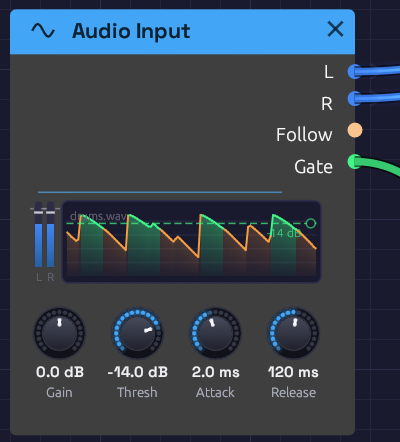
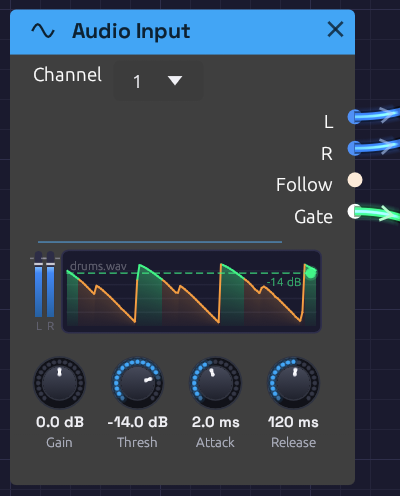
[Phase 14] Audio Input channel choice: hear a mono source on both sides
- A Channel menu on Audio Input: Stereo (input 1 on L, input 2 on R, as
  before), 1 or 2 (that input on both sides). Defaults to Stereo, so old
  patches load and sound the same
- Routed in the module, not the feed: each Audio Input chooses on its own,
  so two can split an interface's inputs between chains
- Follow and Gate follow the chosen input alone
- Tests: channel routing, Stereo unchanged sample for sample, Follow/Gate on
  the chosen input, two modules on 1 and 2 through the offline renderer, an
  old patch loading as Stereo and the choice surviving save and load
- Docs: Channel in the parameters table, a "Choosing a channel" section,
  which inputs are reachable, and a recaptured node image

Closes #94

Claude-Session: https://claude.ai/code/session_01FQjbzhph5a2YkqnHpadR31

diff --git a/src/modules/audio_input.rs b/src/modules/audio_input.rs
@@ -24,6 +24,9 @@ pub const FOLLOW_FLOOR_DB: f32 = -60.0;
 /// again, so a level hovering at the threshold doesn't chatter.
 pub const GATE_HYSTERESIS_DB: f32 = 6.0;
 
+/// The Channel choice: which of the device's inputs each side hears.
+pub const CHANNEL_LABELS: &[&str] = &["Stereo", "1", "2"];
+
 /// Converts a level in dBFS to Follow's scale: 0 at the floor, 1 at 0 dBFS.
 #[inline]
 pub fn follow_from_db(db: f32) -> f32 {
@@ -41,8 +44,9 @@ fn coefficient(ms: f32, sample_rate: f32) -> f32 {
 /// # Ports
 ///
 /// **Outputs:**
-/// - **L**, **R** (Audio): The input, after Gain. A mono input is heard on
-///   both.
+/// - **L**, **R** (Audio): The input, after Gain. In Stereo, input 1 on L
+///   and input 2 on R; on 1 or 2, that input on both. A mono device is
+///   heard on both either way.
 /// - **Follow** (Control): How loud the input is, on a dB scale: 0 at
 ///   -60 dB, 1 at full scale.
 /// - **Gate** (Gate): High while the input is above the Threshold.
@@ -53,6 +57,7 @@ fn coefficient(ms: f32, sample_rate: f32) -> f32 {
 /// - **Threshold** (-60 to 0 dB): Where the gate opens.
 /// - **Attack** (0.1-100 ms): How fast Follow rises.
 /// - **Release** (5-2000 ms): How fast Follow falls.
+/// - **Channel** (Stereo, 1, 2): Which input the module hears.
 pub struct AudioInput {
     /// The Gain knob as a linear gain, smoothed.
     gain: SmoothedValue,
@@ -77,9 +82,9 @@ impl AudioInput {
             sample_rate,
             ports: vec![
                 PortDefinition::output("left", "L", SignalType::Audio)
-                    .describe("The input's left side, or the whole of a mono input, after Gain"),
+                    .describe("Input 1, or the chosen Channel, after Gain"),
                 PortDefinition::output("right", "R", SignalType::Audio)
-                    .describe("The input's right side, or the whole of a mono input, after Gain"),
+                    .describe("Input 2, or the chosen Channel, after Gain"),
                 PortDefinition::output("follow", "Follow", SignalType::Control)
                     .describe("How loud the input is: 0 at -60 dB up to 1 at full scale"),
                 PortDefinition::output("gate", "Gate", SignalType::Gate)
@@ -94,6 +99,8 @@ impl AudioInput {
                     .describe("How fast Follow rises when the input gets louder"),
                 ParameterDefinition::new("release", "Release", 5.0, 2000.0, 150.0, ParameterDisplay::logarithmic("ms"))
                     .describe("How fast Follow falls when the input gets quieter"),
+                ParameterDefinition::choice("channel", "Channel", CHANNEL_LABELS, 0)
+                    .describe("Stereo hears inputs 1 and 2 on L and R; 1 or 2 hears that input alone, on both"),
             ],
         }
     }
@@ -102,6 +109,7 @@ impl AudioInput {
     const PARAM_THRESHOLD: usize = 1;
     const PARAM_ATTACK: usize = 2;
     const PARAM_RELEASE: usize = 3;
+    const PARAM_CHANNEL: usize = 4;
 
     /// Follow's reading of the envelope.
     #[inline]
@@ -156,16 +164,23 @@ impl DspModule for AudioInput {
         let close_at = open_at - GATE_HYSTERESIS_DB / -FOLLOW_FLOOR_DB;
         let attack = coefficient(params[Self::PARAM_ATTACK], self.sample_rate);
         let release = coefficient(params[Self::PARAM_RELEASE], self.sample_rate);
+        let channel = params[Self::PARAM_CHANNEL].round() as usize;
 
         for i in 0..context.block_size {
             let gain = self.gain.next();
-            let (left, right) = context.input.frame(i);
+            let (one, two) = context.input.frame(i);
+            let (left, right) = match channel {
+                1 => (one, one),
+                2 => (two, two),
+                _ => (one, two),
+            };
             let (left, right) = (left * gain, right * gain);
             left_out.samples[i] = left;
             right_out.samples[i] = right;
             self.peaks[0] = self.peaks[0].max(left.abs());
             self.peaks[1] = self.peaks[1].max(right.abs());
 
+            // The louder side; on 1 or 2 both sides are that input
             let level = left.abs().max(right.abs());
             let rate = if level > self.envelope { attack } else { release };
             self.envelope += rate * (level - self.envelope);
@@ -205,8 +220,16 @@ mod tests {
     const SR: f32 = 48000.0;
     const BLOCK: usize = 240; // 5 ms
 
-    /// Default parameters: 0 dB gain, -30 dB threshold, 5 ms attack, 150 ms release.
-    const DEFAULTS: [f32; 4] = [0.0, -30.0, 5.0, 150.0];
+    /// Default parameters: 0 dB gain, -30 dB threshold, 5 ms attack, 150 ms
+    /// release, Stereo.
+    const DEFAULTS: [f32; 5] = [0.0, -30.0, 5.0, 150.0, 0.0];
+
+    /// The defaults with Channel set to `index` (0 Stereo, 1, 2).
+    fn on_channel(index: f32) -> [f32; 5] {
+        let mut params = DEFAULTS;
+        params[4] = index;
+        params
+    }
 
     struct Run {
         left: Vec<f32>,
@@ -216,7 +239,7 @@ mod tests {
     }
 
     /// Plays stereo input through a fresh module, block by block.
-    fn run(left: &[f32], right: &[f32], params: [f32; 4]) -> Run {
+    fn run(left: &[f32], right: &[f32], params: [f32; 5]) -> Run {
         let mut module = AudioInput::new();
         module.prepare(SR, BLOCK);
         module.gain.set_immediate(10f32.powf(params[0] / 20.0));
@@ -265,7 +288,11 @@ mod tests {
         assert_eq!(ports[2].signal_type, SignalType::Control);
         assert_eq!(ports[3].signal_type, SignalType::Gate);
         let params: Vec<_> = module.parameters().iter().map(|p| p.name).collect();
-        assert_eq!(params, ["Gain", "Threshold", "Attack", "Release"]);
+        assert_eq!(params, ["Gain", "Threshold", "Attack", "Release", "Channel"]);
+        // Stereo by default, so patches saved before Channel sound the same
+        let channel = &module.parameters()[4];
+        assert_eq!(channel.default, 0.0);
+        assert!(matches!(channel.display, ParameterDisplay::Discrete { labels } if labels == CHANNEL_LABELS));
         assert!(!module.polyphonic());
     }
 
@@ -277,7 +304,7 @@ mod tests {
         assert_eq!(out.left, left);
         assert_eq!(out.right, right);
 
-        let louder = run(&left, &right, [6.0, -30.0, 5.0, 150.0]);
+        let louder = run(&left, &right, [6.0, -30.0, 5.0, 150.0, 0.0]);
         let ratio = louder.left[100] / left[100];
         assert!((ratio - 10f32.powf(6.0 / 20.0)).abs() < 1e-4, "ratio {ratio}");
     }
@@ -384,7 +411,7 @@ mod tests {
     #[test]
     fn test_gain_raises_the_input_over_the_threshold() {
         let signal = burst(-40.0);
-        let out = run(&signal, &signal, [18.0, -30.0, 5.0, 150.0]);
+        let out = run(&signal, &signal, [18.0, -30.0, 5.0, 150.0, 0.0]);
         assert!(out.gate.iter().any(|&g| g == 1.0), "+18 dB lifts -40 dB over -30 dB");
     }
 
@@ -395,6 +422,48 @@ mod tests {
         let left = run(&loud, &quiet, DEFAULTS);
         let right = run(&quiet, &loud, DEFAULTS);
         assert_eq!(left.follow, right.follow);
+    }
+
+    #[test]
+    fn test_channel_picks_which_input_both_sides_hear() {
+        // A guitar in input 1, nothing in input 2
+        let guitar = tone(-12.0, 0.3);
+        let empty = vec![0.0; guitar.len()];
+
+        let stereo = run(&guitar, &empty, on_channel(0.0));
+        assert_eq!(stereo.left, guitar);
+        assert_eq!(stereo.right, empty);
+
+        let one = run(&guitar, &empty, on_channel(1.0));
+        assert_eq!(one.left, guitar);
+        assert_eq!(one.right, guitar);
+
+        let two = run(&guitar, &empty, on_channel(2.0));
+        assert!(two.left.iter().chain(&two.right).all(|&s| s == 0.0));
+    }
+
+    #[test]
+    fn test_stereo_channel_matches_the_input_exactly() {
+        let left = tone(-6.0, 0.2);
+        let right: Vec<f32> = tone(-18.0, 0.2).iter().map(|s| -s).collect();
+        let out = run(&left, &right, on_channel(0.0));
+        assert_eq!((out.left, out.right), (left, right));
+    }
+
+    #[test]
+    fn test_follow_and_gate_hear_the_chosen_channel_only() {
+        // A loud burst in input 2 while input 1 stays quiet
+        let quiet = burst(-50.0);
+        let loud = burst(-6.0);
+
+        let one = run(&quiet, &loud, on_channel(1.0));
+        assert!(one.gate.iter().all(|&g| g == 0.0), "input 1 never crosses the threshold");
+        assert!(one.follow.iter().all(|&f| f < follow_from_db(-45.0)));
+
+        let two = run(&quiet, &loud, on_channel(2.0));
+        assert!(two.gate.iter().any(|&g| g == 1.0), "input 2 opens the gate");
+        // The same as hearing input 2 on both sides
+        assert_eq!(two.follow, run(&loud, &loud, DEFAULTS).follow);
     }
 
     #[test]

diff --git a/src/engine/offline.rs b/src/engine/offline.rs
@@ -594,6 +594,39 @@ mod tests {
     }
 
     #[test]
+    fn test_two_audio_inputs_each_hear_their_own_channel() {
+        // A guitar in input 1 and a voice in input 2, each Audio Input on
+        // its own channel, one to each side of the output
+        let mut patch = Patch::new("two inputs");
+        for (id, channel) in [(1, 1), (2, 2)] {
+            let mut input = NodeData::new(id, "source.audio_input", (0.0, 0.0));
+            input.parameters = vec![NamedParameter::new("Channel", ParameterValue::Select(channel))];
+            patch.nodes.push(input);
+        }
+        patch.nodes.push(NodeData::new(3, "output.audio", (200.0, 0.0)));
+        patch.connections.push(ConnectionData::new(1, "R", 3, "Left"));
+        patch.connections.push(ConnectionData::new(2, "L", 3, "Right"));
+        let (mut r, _) = OfflineRenderer::from_patch(&patch, 48000.0, 256).unwrap();
+
+        // Input 1 a tone, input 2 a quieter one an octave down
+        let sr = 48000.0;
+        let wave = |amplitude: f32, hz: f32| -> Vec<f32> {
+            (0..(sr as usize)).map(|n| amplitude * (2.0 * std::f32::consts::PI * hz * n as f32 / sr).sin()).collect()
+        };
+        r.set_audio_input(StereoBuffer { left: wave(0.25, 1000.0), right: wave(0.125, 500.0) });
+        let out = r.render_seconds(1.0);
+        let middle = |side: &[f32]| side[(0.5 * sr) as usize..(0.9 * sr) as usize].to_vec();
+        let (left, right) = (middle(&out.left), middle(&out.right));
+        // Each side has its own input's level, at the output's 0.8 volume
+        assert!((rms(&left) / (0.8 * 0.25 / 2f32.sqrt()) - 1.0).abs() < 0.02, "left at {}", rms(&left));
+        assert!((rms(&right) / (0.8 * 0.125 / 2f32.sqrt()) - 1.0).abs() < 0.02, "right at {}", rms(&right));
+        // And its pitch
+        let crossings = |s: &[f32]| s.windows(2).filter(|w| w[0] < 0.0 && w[1] >= 0.0).count();
+        assert!((crossings(&left) as i32 - 400).abs() <= 1, "left crosses {} times", crossings(&left));
+        assert!((crossings(&right) as i32 - 200).abs() <= 1, "right crosses {} times", crossings(&right));
+    }
+
+    #[test]
     fn test_audio_input_gate_plays_an_envelope() {
         // A tone burst on the input opens the gate, which plays the
         // oscillator through an envelope and a VCA

diff --git a/src/persistence/graph_io.rs b/src/persistence/graph_io.rs
@@ -743,6 +743,33 @@ mod tests {
     }
 
     #[test]
+    fn test_audio_input_channel_defaults_to_stereo_and_round_trips() {
+        use crate::persistence::{NamedParameter, ParameterValue};
+
+        // Saved before Audio Input had a Channel
+        let mut patch = Patch::new("old input");
+        let mut input = NodeData::new(1, "source.audio_input", (0.0, 0.0));
+        input.parameters = vec![
+            NamedParameter::new("Gain", ParameterValue::Number(6.0)),
+            NamedParameter::new("Threshold", ParameterValue::Number(-24.0)),
+        ];
+        patch.nodes.push(input);
+        let (saved, warnings) = reload(&patch, 0);
+        assert!(warnings.is_empty(), "{:?}", warnings);
+        assert_eq!(param(&saved, "source.audio_input", "Channel"), 0.0, "Stereo, as before");
+        assert_eq!(param(&saved, "source.audio_input", "Gain"), 6.0);
+
+        // Set to input 1, then saved and loaded again
+        let mut changed = saved.clone();
+        let channel = changed.nodes[0].parameters.iter_mut().find(|p| p.name == "Channel").unwrap();
+        channel.value = ParameterValue::Select(1);
+        let json = serde_json::to_string(&reload(&changed, 0).0).unwrap();
+        let loaded = patch_from_json(&json).unwrap();
+        assert_eq!(param(&loaded, "source.audio_input", "Channel"), 1.0);
+        assert_eq!(param(&loaded, "source.audio_input", "Threshold"), -24.0);
+    }
+
+    #[test]
     fn test_parameters_restore_by_name_not_position() {
         let mut patch = Patch::new("reordered");
         let mut filter = NodeData::new(1, "filter.svf", (0.0, 0.0));

diff --git a/docs/src/modules/sources/audio-input.md b/docs/src/modules/sources/audio-input.md
@@ -3,7 +3,7 @@
 **Module ID** `source.audio_input` · **Category** Source
 
 ![Audio Input Module](../../images/module-audio-input.png)
-*A drum loop coming in. Follow scrolls past the Threshold line, turning green wherever the gate opened: the kicks get through, the snares stay under.*
+*A drum loop coming in on input 1, with **Channel** on **1** so both meters carry it. Follow scrolls past the Threshold line, turning green wherever the gate opened: the kicks get through, the snares stay under.*
 
 Audio Input brings sound from outside into the patch: a microphone, a guitar, a synth on a line input. Put your voice through the reverb, a guitar through the ladder filter and a tape delay, or let a drum loop play a synth.
 
@@ -15,8 +15,8 @@ Alongside the audio, the module listens to how loud the input is. **Follow** tra
 
 | Port | Signal Type | Description |
 |------|-------------|-------------|
-| **L** | Audio (Blue) | The input's left side, after **Gain**. A mono microphone is heard on both **L** and **R** |
-| **R** | Audio (Blue) | The input's right side, after **Gain** |
+| **L** | Audio (Blue) | Input 1, after **Gain**; or, with **Channel** on **1** or **2**, that input |
+| **R** | Audio (Blue) | Input 2, after **Gain**; or, with **Channel** on **1** or **2**, that input |
 | **Follow** | Control (Orange) | How loud the input is, on a dB scale: 0 at -60 dB, 1 at full scale |
 | **Gate** | Gate (Green) | High while **Follow** is above the **Threshold** |
 
@@ -24,12 +24,31 @@ The module has no inputs: its signal comes from the device.
 
 ## Parameters
 
-| Knob | Range | Default | Description |
-|------|-------|---------|-------------|
+| Control | Range | Default | Description |
+|---------|-------|---------|-------------|
+| **Channel** | Stereo, 1, 2 | Stereo | Which of the device's inputs the module hears, on a menu at the top of the node. See [Choosing a channel](#choosing-a-channel) |
 | **Gain** | -24 – +24 dB | 0 dB | Level of the input, before everything else. Follow and Gate hear it too |
 | **Thresh** | -60 – 0 dB | -30 dB | Where the gate opens |
 | **Attack** | 0.1 – 100 ms | 5 ms | How fast **Follow** rises when the input gets louder |
 | **Release** | 5 – 2000 ms | 150 ms | How fast **Follow** falls when the input gets quieter |
+
+## Choosing a channel
+
+An audio interface hands its inputs over as a pair: input 1 on the left, input 2 on the right. That's right for a stereo source, like a synth's two outputs, but a guitar or a microphone plugged into input 1 alone would play only in your left ear, and a stereo delay or reverb after it would get a lopsided signal. **Channel** picks what the module hears:
+
+| Channel | L hears | R hears | For |
+|---------|---------|---------|-----|
+| **Stereo** | input 1 | input 2 | A stereo source across both inputs, or a device with a single input (see below) |
+| **1** | input 1 | input 1 | A guitar or microphone in input 1, heard in the centre |
+| **2** | input 2 | input 2 | The same, in input 2 |
+
+**Follow** and **Gate** hear what the module puts out. On **1** or **2** they follow that input alone. On **Stereo** they follow whichever side is louder.
+
+Each Audio Input module chooses for itself, so two of them can split an interface: one on **1** for a guitar through a filter and an echo, one on **2** for a voice through a reverb, each in its own chain.
+
+A device that has only one input, like a laptop's built-in microphone or a USB mic, already plays on both sides, whichever **Channel** you pick.
+
+Only inputs 1 and 2 reach the patch. On an interface with more, like a Scarlett 18i20, plug what you want to play into the first two.
 
 ## The display
 
@@ -65,7 +84,7 @@ The **Buffer** settles on its own. It opens holding enough for the worst timing 
 - **Different sample rates are fine.** Windows often runs a microphone at 48 kHz and speakers at 44.1 kHz, even on one interface. Modular converts the input to the output's rate on the way in. For the cleanest sound, set both to the same rate in your system's sound settings; the status bar tooltip says when it's converting.
 - **Changing the Output device** reopens the input at the new device's rate.
 - If the input device is unplugged, the status bar shows **⚠ Input lost**. Choose it again under **Input**.
-- A mono device is heard on both sides. An interface with more than two inputs gives its first two.
+- A mono device is heard on both sides. With a two-input interface, set **Channel** to the input you're using; see [Choosing a channel](#choosing-a-channel).
 
 ## Low latency with ASIO (Windows)
 
@@ -116,7 +135,7 @@ The file plays from the start of the render. It must be at the render's sample r
 [Reverb Out R] ──> [Audio Output Right]
 ```
 
-Talk or sing into the microphone. Raise the Reverb's **Size** and **Decay** for a hall, or a cathedral. Use headphones.
+Talk or sing into the microphone. If it's plugged into an interface, set **Channel** to its input, so it sits in the middle of the room rather than off to one side. Raise the Reverb's **Size** and **Decay** for a hall, or a cathedral. Use headphones.
 
 ### Guitar through a ladder filter and tape echo
 
@@ -127,7 +146,7 @@ Talk or sing into the microphone. Raise the Reverb's **Size** and **Decay** for 
 [Stereo Delay Out L / Out R] ──> [Audio Output Left / Right]
 ```
 
-**Follow** opens the filter as you dig in, like an auto-wah: each pick attack sweeps it up, and it closes as the note decays. Start with the Ladder's cutoff low and its **Resonance** around 50%. **Attack** at 5 ms and **Release** at 200 ms give a classic quack. The tape echo then repeats each sweep, darker every time.
+Set **Channel** to the input the guitar is plugged into. **Follow** opens the filter as you dig in, like an auto-wah: each pick attack sweeps it up, and it closes as the note decays. Start with the Ladder's cutoff low and its **Resonance** around 50%. **Attack** at 5 ms and **Release** at 200 ms give a classic quack. The tape echo then repeats each sweep, darker every time.
 
 ### Drums that play a synth
 
